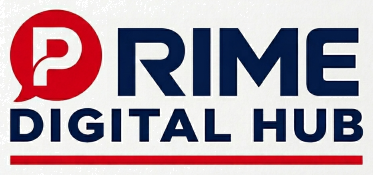
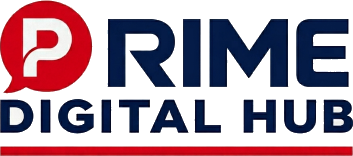
refine: position Prime as continuous learning hub

diff --git a/components/sections/hero.tsx b/components/sections/hero.tsx
@@ -18,17 +18,17 @@ export function HeroSection({ portalHref }: HeroSectionProps) {
               <span className="absolute inline-flex h-full w-full animate-ping rounded-full bg-prime-red opacity-75" />
               <span className="relative inline-flex h-2 w-2 rounded-full bg-prime-red" />
             </span>
-            Aprendizagem particular de inglês
+            Prime Digital Hub · Seu ecossistema de aprendizagem
           </div>
 
           <div className="space-y-5">
             <h1 className="max-w-3xl font-display text-4xl font-extrabold leading-[1.04] tracking-tight md:text-5xl lg:text-6xl">
-              Um <span className="text-prime-red">superprofessor</span>, assistido pela inteligência artificial.
-              <span className="block text-prime-cream/90">Para que você nunca precise começar do zero.</span>
+              Sua escola de inglês <span className="text-prime-red">continua evoluindo.</span>
+              <span className="block text-prime-cream/90">Aprendizagem que permanece.</span>
             </h1>
             <p className="max-w-xl text-lg leading-relaxed text-prime-cream/80 md:text-xl">
-              O PRIME transforma cada aula em memória, evidência e direção. A IA organiza e preserva o contexto;
-              o professor interpreta, valida e conduz; você permanece no centro da sua evolução.
+              Cada aula se conecta à próxima porque o seu aprendizado tem contexto. O professor acompanha sua trajetória, registra o que realmente importa
+              e transforma cada encontro em um passo claro para a sua evolução.
             </p>
           </div>
 
@@ -70,7 +70,7 @@ export function HeroSection({ portalHref }: HeroSectionProps) {
                 </div>
                 <div className="min-w-0">
                   <p className="text-xs uppercase tracking-[0.2em] text-prime-cream/50">Prime Digital Hub</p>
-                  <h2 className="mt-1 font-display text-xl font-semibold text-white sm:text-2xl">Sua aprendizagem, com contexto</h2>
+                  <h2 className="mt-1 font-display text-xl font-semibold text-white sm:text-2xl">Sua aprendizagem, com o seu contexto</h2>
                 </div>
               </div>
               <Sparkles className="hidden h-5 w-5 shrink-0 text-prime-red sm:block" />

diff --git a/components/sections/why-prime.tsx b/components/sections/why-prime.tsx
@@ -13,8 +13,8 @@ const values = [
   },
   {
     icon: Brain,
-    title: 'IA como assistente',
-    description: 'A inteligência artificial organiza informações e amplia a capacidade de memória do professor.',
+    title: 'Tecnologia nos bastidores',
+    description: 'Um sistema de inteligência de aprendizagem organiza o contexto para que o professor possa se concentrar em você.',
   },
   {
     icon: History,
@@ -39,10 +39,10 @@ export function WhyPrimeSection() {
       <div className="mb-16 grid gap-8 lg:grid-cols-[0.8fr_1.2fr] lg:items-end">
         <div>
           <p className="mb-3 text-sm font-semibold uppercase tracking-[0.22em] text-prime-red">O que torna o PRIME diferente</p>
-          <h2 className="font-display text-3xl font-bold text-white md:text-4xl">Inteligência a serviço de uma relação de aprendizagem.</h2>
+          <h2 className="font-display text-3xl font-bold text-white md:text-4xl">Uma escola que continua com você.</h2>
         </div>
         <p className="max-w-2xl text-lg leading-relaxed text-prime-cream/80">
-          A tecnologia não ocupa o lugar do professor. Ela funciona como sua assistente: organiza, assiste e amplia sua memória para que ele possa acompanhar você com mais contexto e personalização.
+          O professor continua sendo a autoridade. A tecnologia trabalha nos bastidores para preservar o contexto da sua jornada e tornar cada encontro mais atento, pessoal e consistente.
         </p>
       </div>
 

diff --git a/components/sections/features-grid.tsx b/components/sections/features-grid.tsx
@@ -8,8 +8,8 @@ const features = [
   },
   {
     icon: Brain,
-    title: 'Inteligência como assistência',
-    description: 'A IA organiza o contexto e amplia a memória do professor, sem substituir sua autoridade pedagógica.',
+    title: 'Acompanhamento com contexto',
+    description: 'O professor encontra o histórico certo para acompanhar sua evolução com atenção e consistência.',
   },
   {
     icon: Compass,
@@ -30,7 +30,7 @@ export function FeaturesGrid() {
         <p className="mb-3 text-sm font-semibold uppercase tracking-[0.22em] text-prime-red">O método PRIME</p>
         <h2 className="mb-4 font-display text-3xl font-bold text-white md:text-4xl">Educação que lembra.</h2>
         <p className="text-lg leading-relaxed text-prime-cream/80">
-          O PRIME conecta cada encontro à sua história de aprendizagem — com tecnologia assistindo o professor e o aluno no centro de tudo.
+          O PRIME conecta cada encontro à sua história de aprendizagem — para que a sua escola continue com você entre uma aula e outra.
         </p>
       </div>
 

diff --git a/components/sections/cta.tsx b/components/sections/cta.tsx
@@ -46,9 +46,9 @@ export function CTASection({ portalHref }: CTASectionProps) {
             <span className="text-sm font-semibold uppercase tracking-[0.22em]">O método PRIME</span>
             <GraduationCap className="h-5 w-5" />
           </div>
-          <h2 className="mb-6 font-display text-3xl font-bold text-white md:text-4xl">Educação que lembra. Você que evolui.</h2>
+          <h2 className="mb-6 font-display text-3xl font-bold text-white md:text-4xl">Aprendizagem que permanece.</h2>
           <p className="mx-auto mb-8 max-w-2xl text-lg leading-relaxed text-prime-cream/80">
-            O professor permanece no centro. A inteligência artificial assiste, organiza e amplia sua memória para que cada aula tenha mais contexto, direcionamento e personalização.
+            Uma escola de inglês que acompanha sua evolução, aula após aula. O professor permanece no centro e cada encontro continua a história do anterior.
           </p>
         </div>
 

diff --git a/components/sections/comparison.tsx b/components/sections/comparison.tsx
@@ -19,7 +19,7 @@ export function ComparisonSection() {
     <section className="relative z-10 container py-20">
       <div className="mb-16 max-w-3xl">
         <p className="mb-3 text-sm font-semibold uppercase tracking-[0.22em] text-prime-red">Antes e depois</p>
-        <h2 className="mb-4 font-display text-3xl font-bold text-white md:text-4xl">Quando a educação lembra, a evolução ganha direção.</h2>
+        <h2 className="mb-4 font-display text-3xl font-bold text-white md:text-4xl">Quando a educação lembra, o aluno assume a direção.</h2>
         <p className="text-lg leading-relaxed text-prime-cream/80">Não é sobre acumular dados. É sobre transformar cada aula em contexto para a próxima.</p>
       </div>
 

diff --git a/components/layout/footer.tsx b/components/layout/footer.tsx
@@ -12,7 +12,7 @@ export function Footer() {
             <span className="text-sm text-prime-cream/60">© 2026 Prime Digital Hub. Todos os direitos reservados.</span>
           </div>
           <div className="text-center md:text-right">
-            <p className="text-sm font-medium text-prime-cream/70">Educação que lembra. Você que evolui.</p>
+            <p className="text-sm font-medium text-prime-cream/70">Aprendizagem que permanece.</p>
             <p className="mt-1 text-sm text-prime-cream/40">Seu ecossistema de aprendizagem</p>
           </div>
         </div>

diff --git a/components/layout/header.tsx b/components/layout/header.tsx
@@ -12,7 +12,7 @@ export function Header({ portalHref }: HeaderProps) {
     <header className="relative z-10 container py-6">
       <nav className="flex min-w-0 items-center justify-between gap-3">
         <Link href="/" className="flex min-w-0 items-center">
-          <BrandLogo variant="full" className="h-16 w-44 sm:h-[72px] sm:w-52" priority />
+          <BrandLogo variant="full" className="h-12 w-36 sm:h-14 sm:w-44" priority />
         </Link>
         <Link
           href={portalHref}

diff --git a/components/layout/brand-logo.tsx b/components/layout/brand-logo.tsx
@@ -13,8 +13,8 @@ const logos: Record<BrandLogoVariant, { src: string; alt: string; width: number;
   full: {
     src: '/brand/prime-digital-hub-full-transparent.png',
     alt: 'Prime Digital Hub',
-    width: 373,
-    height: 175,
+    width: 353,
+    height: 156,
   },
   mark: {
     src: '/brand/prime-digital-hub-mark-transparent.png',
